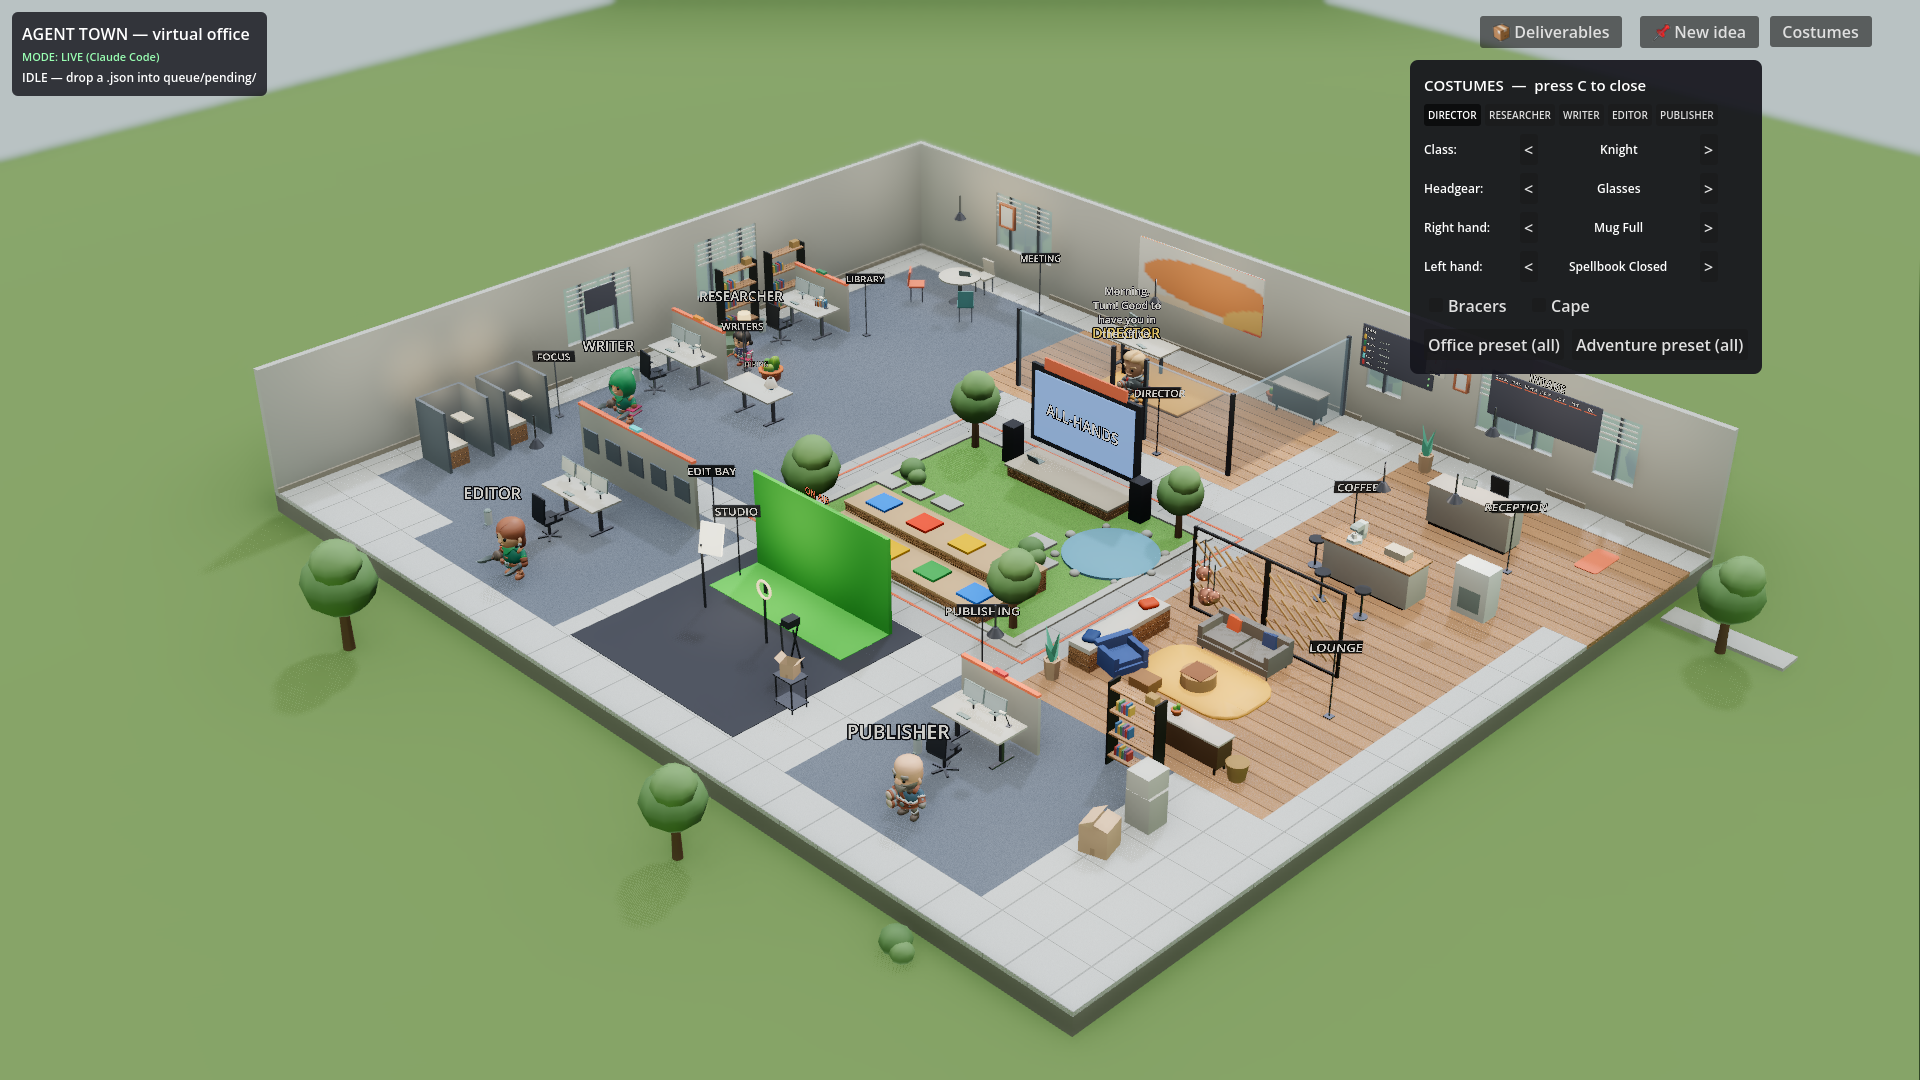
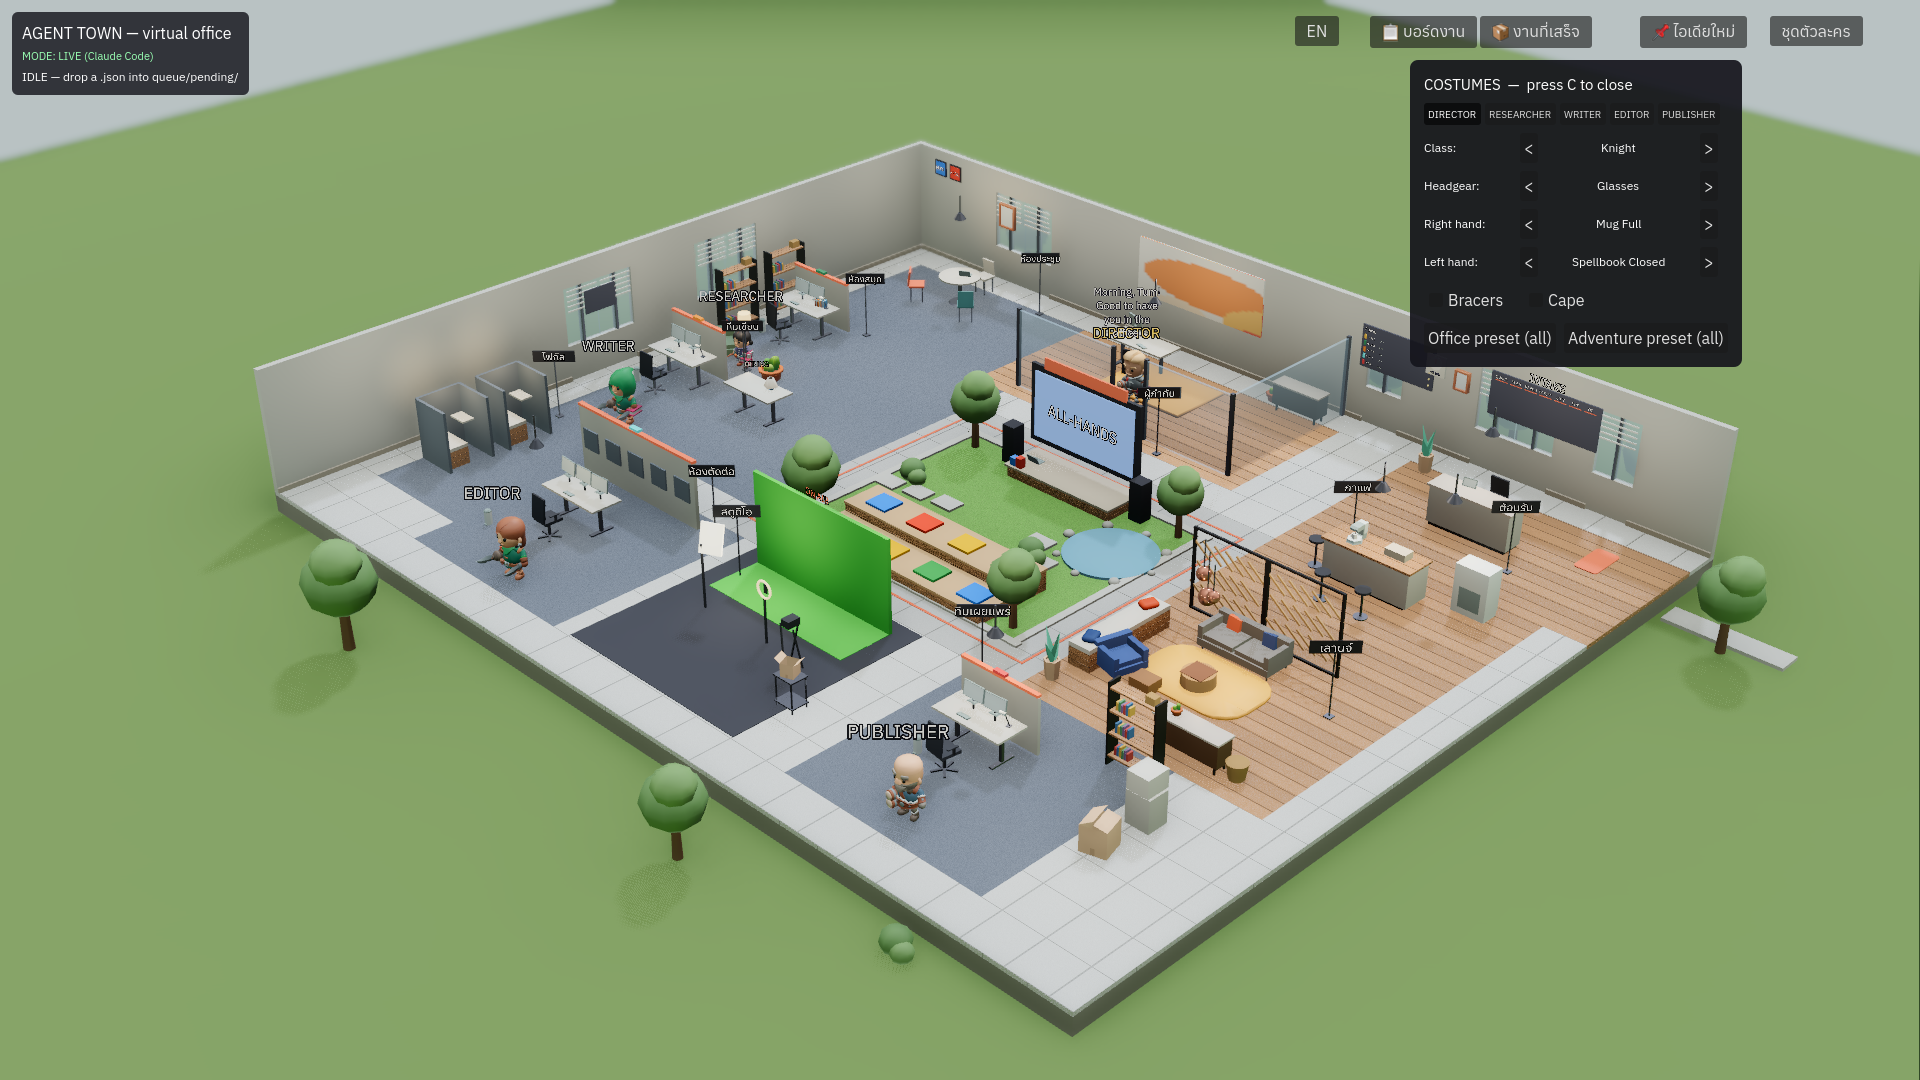
Thai/English UI toggle (Anuphan) + project list on the board
- Anuphan (SIL OFL, full Thai+Latin variable font) bundled as the UI
  typeface: default theme font for all Controls, explicit font on
  every Label3D (signs, boards, bubbles, nameplates)
- I18n autoload: 50+ chrome strings EN/TH, nodes register and relabel
  LIVE on the ไทย/EN button; choice persists. Agent-generated CONTENT
  keeps its own language — that's the content config, not the chrome
- zone signs, wall boards, top-bar buttons, approval desk, inspector
  (states, needs, memories header), input dialog, toasts — all toggle
- BoardPanel: PROJECTS sidebar (Asana/Jira pattern from research) —
  every project in one list with status color (queued gray, active
  amber, shipped green), click a shipped project to open its files;
  lane headers and card subtitles translate live

diff --git a/README.md b/README.md
@@ -183,7 +183,9 @@ and characters from the
 (both CC0 by Kay Lousberg), with tech and kitchen props from the
 [Kenney Furniture Kit](https://kenney.nl/assets/furniture-kit) (CC0) —
 all loaded at runtime from `assets/models/`.
-Textures and the map are generated by `tools/generate_assets.py`.
+UI typeface: [Anuphan](https://fonts.google.com/specimen/Anuphan)
+(SIL Open Font License) — the interface toggles Thai/English live.
+Textures, audio and the map are generated by `tools/generate_assets.py`.
 
 ## License
 